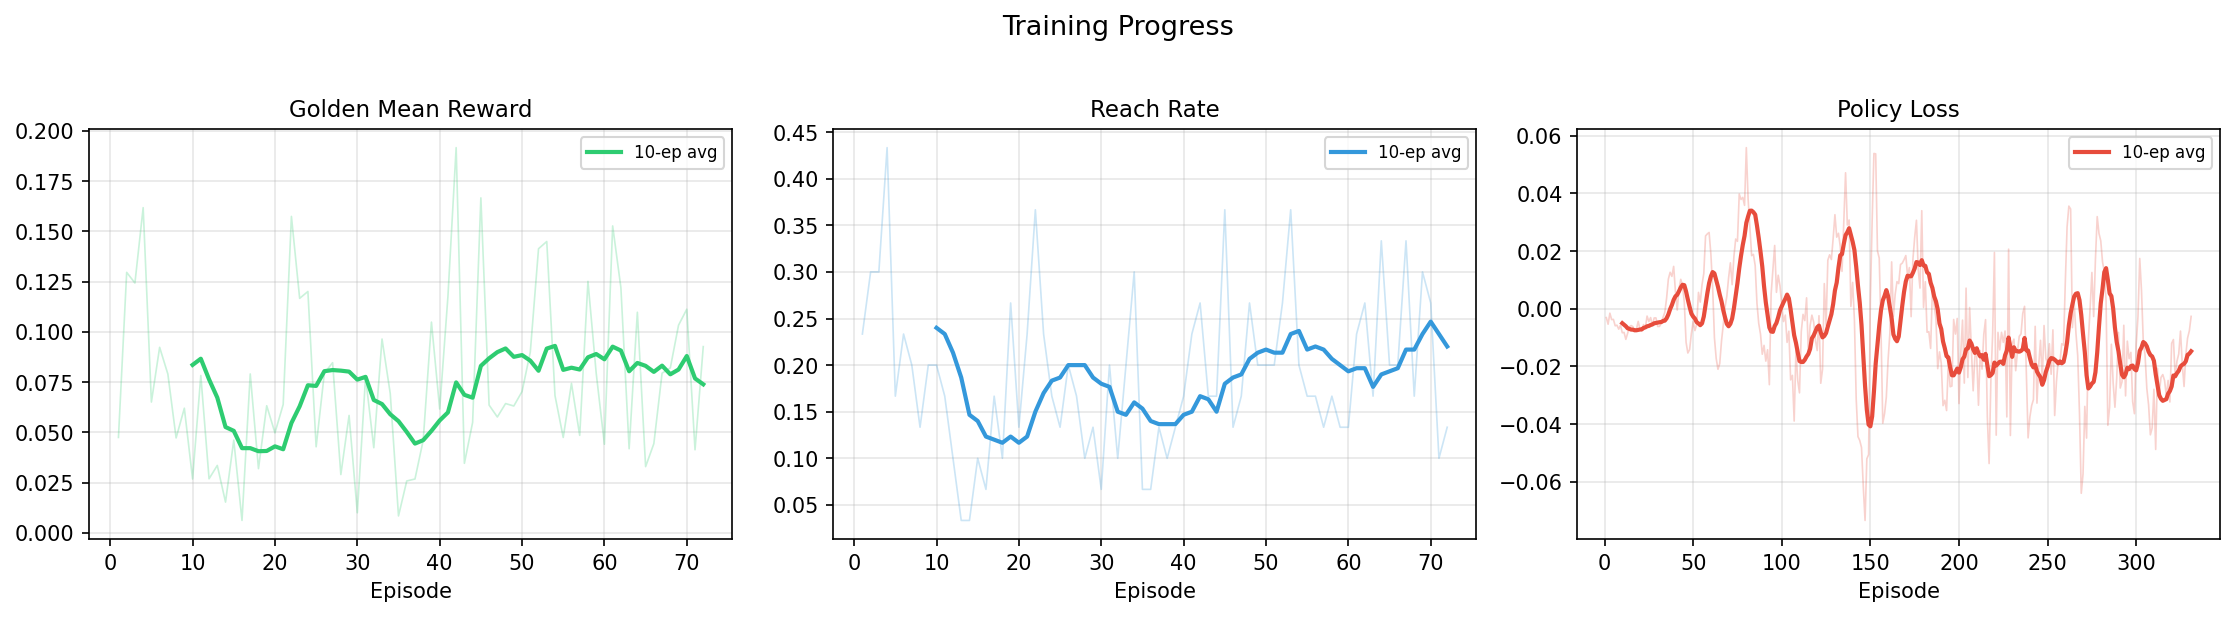
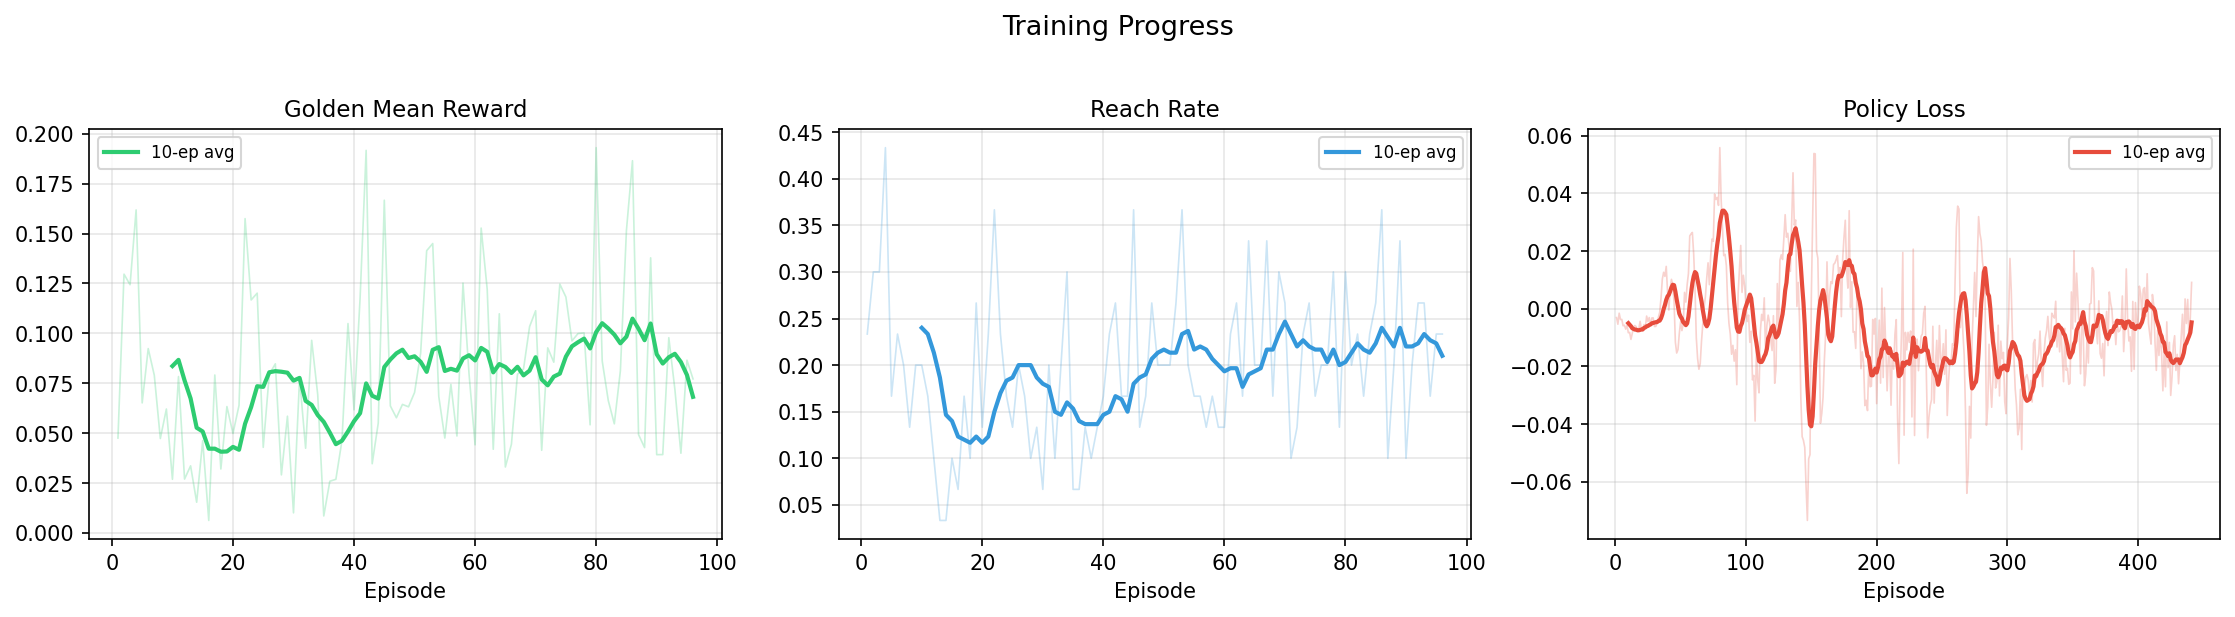
Update training curves and enhance grid negotiation environment
- Updated binary plot files for various training curves to reflect recent training results.
- Modified the grid negotiation environment to support two-phase episodes, improving the observation structure and adding unified observation handling.
- Enhanced the gym wrapper to accommodate the new observation format and added BFS distance calculation for navigation shaping rewards.

diff --git a/thesslink_rl/gym_wrapper.py b/thesslink_rl/gym_wrapper.py
@@ -22,15 +22,16 @@ from gymnasium import spaces
 
 from .environment import (
     ACTION_DIM,
-    ACT_SUGGEST_BASE,
-    NEG_OBS_RAW_SIZE,
     NUM_AGENTS,
-    NUM_POIS,
-    NUM_SUGGEST_ACTIONS,
     OBS_FLAT_SIZE,
     GridNegotiationEnv,
 )
-from .evaluation import AgentConfig, compute_poi_scores, golden_mean_reward
+from .evaluation import (
+    AgentConfig,
+    bfs_distances,
+    compute_poi_scores,
+    golden_mean_reward,
+)
 
 _PACKAGE_DIR = Path(__file__).resolve().parent
 
@@ -80,23 +81,17 @@ class GridNegotiationGymEnv(gym.Env):
 
         self._poi_scores: Dict[str, np.ndarray] = {}
         self._agreed_poi: int | None = None
-
-    def _flatten_negotiation_obs(self, obs_dict: Dict[str, np.ndarray]) -> np.ndarray:
-        """Flatten negotiation obs (scores + peer action) and zero-pad to OBS_FLAT_SIZE."""
-        raw = np.concatenate([obs_dict["scores"], obs_dict["peer_action"]])
-        padded = np.zeros(OBS_FLAT_SIZE, dtype=np.float32)
-        padded[:NEG_OBS_RAW_SIZE] = raw
-        return padded
-
-    def _flatten_navigation_obs(self, obs_dict: Dict[str, np.ndarray]) -> np.ndarray:
-        """Flatten the grid (C,H,W) + comm vector into a single 1D array."""
-        grid_flat = obs_dict["grid"].flatten()
-        return np.concatenate([grid_flat, obs_dict["comm"]])
+        self._prev_dist: Dict[str, float] = {}
 
     def _flatten_obs(self, obs_dict: Dict[str, np.ndarray]) -> np.ndarray:
-        if "grid" in obs_dict:
-            return self._flatten_navigation_obs(obs_dict)
-        return self._flatten_negotiation_obs(obs_dict)
+        """Concatenate the unified obs dict into a flat vector of size OBS_FLAT_SIZE."""
+        return np.concatenate([
+            obs_dict["phase"],
+            obs_dict["scores"],
+            obs_dict["peer_action"],
+            obs_dict["agreed_poi"],
+            obs_dict["grid"].flatten(),
+        ])
 
     def reset(
         self, seed: int | None = None, options: dict | None = None
@@ -116,6 +111,7 @@ class GridNegotiationGymEnv(gym.Env):
             self._env.poi_scores[agent] = scores
 
         self._agreed_poi = None
+        self._prev_dist = {}
 
         obs_tuple = tuple(
             self._flatten_obs(self._env._get_obs(a)) for a in agents
@@ -126,6 +122,14 @@ class GridNegotiationGymEnv(gym.Env):
         }
         return obs_tuple, info
 
+    def _bfs_dist_to_target(self, agent: str) -> float:
+        """BFS distance from agent's current position to the agreed POI."""
+        target = self._env.poi_positions[self._agreed_poi]
+        pos = tuple(self._env.agent_positions[agent])
+        dist_map = bfs_distances(pos, self._env.obstacle_map)
+        d = dist_map[target[0], target[1]]
+        return float(d) if np.isfinite(d) else float(self._env.obstacle_map.size)
+
     def step(
         self, actions: list[int] | tuple[int, ...] | np.ndarray
     ) -> tuple[tuple[np.ndarray, ...], list[float], bool, bool, dict]:
@@ -134,21 +138,42 @@ class GridNegotiationGymEnv(gym.Env):
 
         obs_d, rewards_d, terminated_d, truncated_d, infos_d = self._env.step(actions_dict)
 
-        if self._agreed_poi is None and self._env.agreed_poi is not None:
-            self._agreed_poi = self._env.agreed_poi
-
         obs_tuple = tuple(self._flatten_obs(obs_d[a]) for a in agents)
         rewards = [rewards_d[a] for a in agents]
 
-        if self._agreed_poi is not None:
-            target = self._env.poi_positions[self._agreed_poi]
+        just_agreed = (
+            self._agreed_poi is None and self._env.agreed_poi is not None
+        )
+        if just_agreed:
+            self._agreed_poi = self._env.agreed_poi
+            # Negotiation reward: golden mean for the chosen POI
+            sa = self._poi_scores[agents[0]][self._agreed_poi]
+            sb = self._poi_scores[agents[1]][self._agreed_poi]
+            gm = golden_mean_reward(float(sa), float(sb))
+            rewards = [gm] * self.n_agents
+            # Initialise distance tracking for nav shaping
             for a in agents:
-                if tuple(self._env.agent_positions.get(a, [-1, -1])) == target:
-                    sa = self._poi_scores[agents[0]][self._agreed_poi]
-                    sb = self._poi_scores[agents[1]][self._agreed_poi]
-                    gm = golden_mean_reward(float(sa), float(sb))
-                    rewards = [gm for _ in agents]
-                    break
+                self._prev_dist[a] = self._bfs_dist_to_target(a)
+
+        if self._agreed_poi is not None and not just_agreed:
+            # Navigation shaping: reward getting closer, penalise moving away
+            target = self._env.poi_positions[self._agreed_poi]
+            reached = False
+            for i, a in enumerate(agents):
+                pos = tuple(self._env.agent_positions.get(a, [-1, -1]))
+                if pos == target:
+                    reached = True
+                new_dist = self._bfs_dist_to_target(a)
+                old_dist = self._prev_dist.get(a, new_dist)
+                rewards[i] += (old_dist - new_dist) * 0.01
+                self._prev_dist[a] = new_dist
+
+            # Terminal reward when any agent reaches the POI
+            if reached:
+                sa = self._poi_scores[agents[0]][self._agreed_poi]
+                sb = self._poi_scores[agents[1]][self._agreed_poi]
+                gm = golden_mean_reward(float(sa), float(sb))
+                rewards = [gm] * self.n_agents
 
         done = all(terminated_d[a] for a in agents)
         truncated = all(truncated_d[a] for a in agents)

diff --git a/thesslink_rl/environment.py b/thesslink_rl/environment.py
@@ -1,4 +1,4 @@
-"""Core grid environment: 10x10 grid with obstacles, POIs, and comms.
+"""Core grid environment: 10x10 grid with obstacles, POIs, and two-phase episodes.
 
 Two phases per episode, both controlled by RL:
   1. Negotiation -- agents suggest POIs and agree on a target.
@@ -15,7 +15,6 @@ GRID_SIZE = 10
 NUM_OBSTACLES = 10
 NUM_POIS = 3
 NUM_AGENTS = 2
-COMM_DIM = NUM_POIS
 MAX_EPISODE_STEPS = 60
 
 NUM_MOVE_ACTIONS = 5
@@ -32,13 +31,16 @@ CH_POI = 1
 CH_SELF = 2
 NUM_CHANNELS = 3
 
-# Negotiation obs: own POI scores (NUM_POIS) + peer last action one-hot (NUM_SUGGEST_ACTIONS + 1)
-# The +1 is for "no action yet" at episode start
+# Negotiation obs components
 PEER_ACTION_DIM = NUM_SUGGEST_ACTIONS + 1  # 4: [suggest_0, suggest_1, suggest_2, no_action]
-NEG_OBS_RAW_SIZE = NUM_POIS + PEER_ACTION_DIM  # 7
 
-# Flat observation size: grid (C*H*W) + comm, negotiation obs is zero-padded to this
-OBS_FLAT_SIZE = NUM_CHANNELS * GRID_SIZE * GRID_SIZE + COMM_DIM  # 303
+# Unified observation layout (always the same in both phases):
+#   [phase_flag(1), poi_scores(3), peer_action(4), agreed_poi_onehot(3), grid(3*10*10)]
+PHASE_DIM = 1
+NEG_INFO_DIM = NUM_POIS + PEER_ACTION_DIM  # 7
+AGREED_POI_DIM = NUM_POIS                  # 3
+GRID_FLAT_DIM = NUM_CHANNELS * GRID_SIZE * GRID_SIZE  # 300
+OBS_FLAT_SIZE = PHASE_DIM + NEG_INFO_DIM + AGREED_POI_DIM + GRID_FLAT_DIM  # 311
 
 
 class GridNegotiationEnv:
@@ -84,9 +86,6 @@ class GridNegotiationEnv:
             self.agent_positions[agent] = self._random_free_cell()
         self.spawn_positions = {a: list(p) for a, p in self.agent_positions.items()}
 
-        self.comm_buffer: Dict[str, np.ndarray] = {
-            a: np.zeros(COMM_DIM, dtype=np.float32) for a in self.agents
-        }
         self.phase = "negotiation"
         self.agreed_poi = None
         self.last_suggestion = {}
@@ -189,34 +188,41 @@ class GridNegotiationEnv:
             self.agent_positions[agent] = [nr, nc]
 
     def _get_obs(self, agent: str) -> Dict[str, np.ndarray]:
-        if self.phase == "negotiation":
-            return self._get_negotiation_obs(agent)
-        return self._get_navigation_obs(agent)
-
-    def _get_negotiation_obs(self, agent: str) -> Dict[str, np.ndarray]:
-        own_scores = self.poi_scores.get(
-            agent, np.zeros(NUM_POIS, dtype=np.float32)
+        """Unified observation: phase flag + negotiation info + agreed POI + grid."""
+        # Phase flag
+        phase_flag = np.array(
+            [1.0 if self.phase == "navigation" else 0.0], dtype=np.float32,
         )
 
+        # Negotiation info (always present so the network layout is stable)
+        own_scores = self.poi_scores.get(
+            agent, np.zeros(NUM_POIS, dtype=np.float32),
+        )
         peer = [a for a in self.possible_agents if a != agent][0]
         peer_action_onehot = np.zeros(PEER_ACTION_DIM, dtype=np.float32)
         if peer in self.last_suggestion:
             peer_action_onehot[self.last_suggestion[peer]] = 1.0
         else:
-            peer_action_onehot[-1] = 1.0  # "no action yet"
+            peer_action_onehot[-1] = 1.0
 
-        return {"scores": own_scores.copy(), "peer_action": peer_action_onehot}
+        # Agreed POI one-hot (zeros until agreement)
+        agreed_onehot = np.zeros(NUM_POIS, dtype=np.float32)
+        if self.agreed_poi is not None:
+            agreed_onehot[self.agreed_poi] = 1.0
 
-    def _get_navigation_obs(self, agent: str) -> Dict[str, np.ndarray]:
+        # Grid channels: obstacles, POIs, self position
         grid = np.zeros((NUM_CHANNELS, GRID_SIZE, GRID_SIZE), dtype=np.float32)
         grid[CH_OBSTACLE] = self.obstacle_map.astype(np.float32)
         for pr, pc in self.poi_positions:
             grid[CH_POI, pr, pc] = 1.0
-
         r, c = self.agent_positions[agent]
         grid[CH_SELF, r, c] = 1.0
 
-        other = [a for a in self.possible_agents if a != agent][0]
-        peer_comm = self.comm_buffer[other].copy()
-        return {"grid": grid, "comm": peer_comm}
+        return {
+            "phase": phase_flag,
+            "scores": own_scores.copy(),
+            "peer_action": peer_action_onehot,
+            "agreed_poi": agreed_onehot,
+            "grid": grid,
+        }
 
